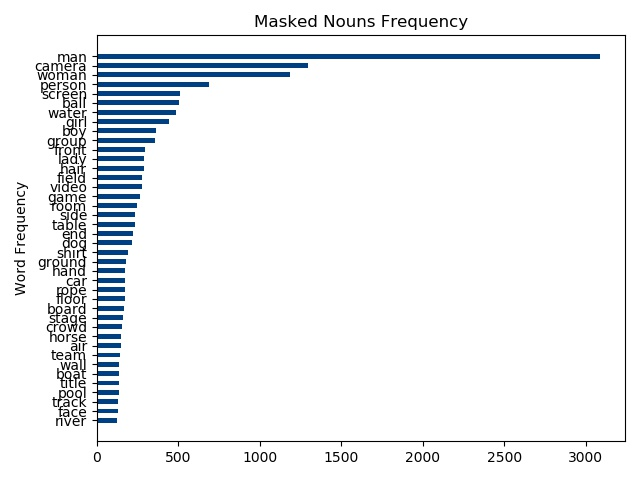
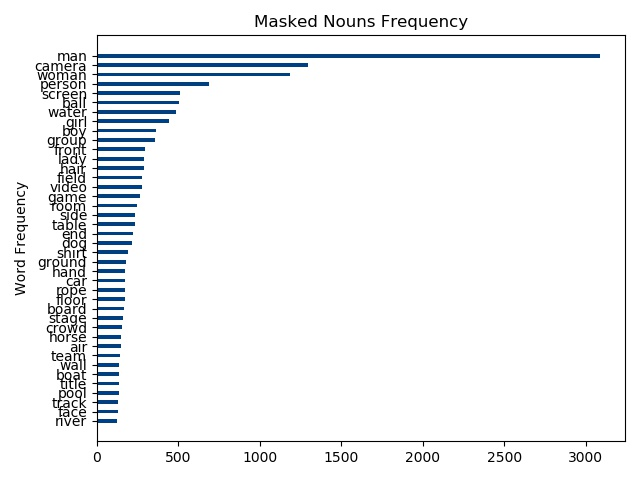
plot

diff --git a/evaluation/draw.py b/evaluation/draw.py
@@ -10,7 +10,7 @@ num = 40
 x = [s[0] for s in sorted_words[:num]]
 y = [s[1] for s in sorted_words[:num]]
 
-x_pos = [i*1.5 for i, _ in enumerate(x)]
+x_pos = [i*2 for i, _ in enumerate(x)]
 x_pos.reverse()
 
 plt.barh(x_pos, y, color='#004080')
